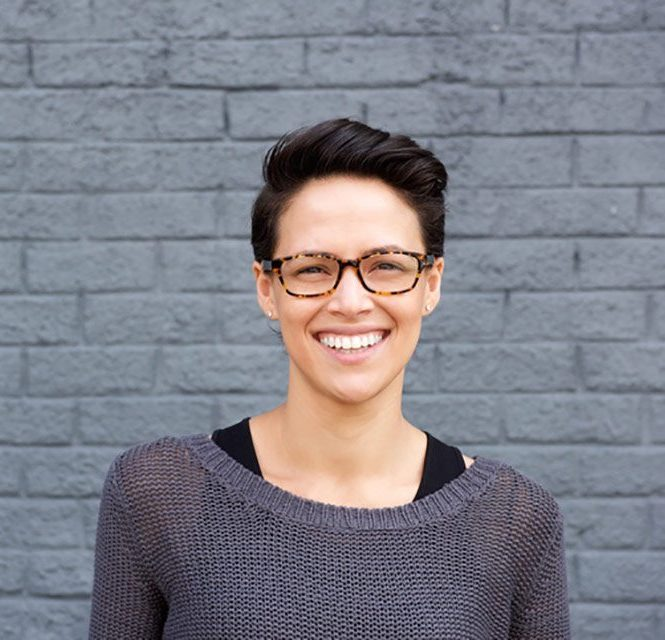
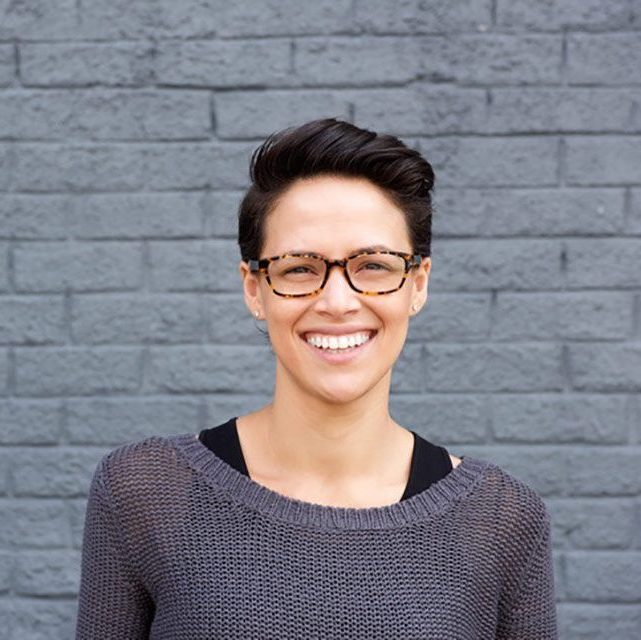
profile3 image update, tags removal

diff --git a/src/main/resources/templates/index.html b/src/main/resources/templates/index.html
@@ -2,9 +2,9 @@
 <html xmlns:th="http://www.thymeleaf.org">
 <head>
     <title>quoll</title>
-    <meta name="viewport" content="width=device-width, initial-scale=1.0"></meta>
-    <link href="webjars/bootstrap/4.0.0-beta.2/css/bootstrap.min.css" rel="stylesheet" media="screen"></link>
-    <link th:href="@{/css/index.css}" href="/css/index.css" rel="stylesheet" type="text/css"></link>
+    <meta name="viewport" content="width=device-width, initial-scale=1.0"/>
+    <link href="webjars/bootstrap/4.0.0-beta.2/css/bootstrap.min.css" rel="stylesheet" media="screen"/>
+    <link th:href="@{/css/index.css}" href="/css/index.css" rel="stylesheet" type="text/css"/>
 </head>
 <body>
     <nav class="navbar navbar-expand-md navbar-light fixed-top bg-white">
@@ -40,7 +40,7 @@
                 <p class="lead">Donec ullamcorper nulla non metus auctor fringilla. Vestibulum id ligula porta felis euismod semper. Praesent commodo cursus magna, vel scelerisque nisl consectetur. Fusce dapibus, tellus ac cursus commodo.</p>
             </div>
             <div class="col-md-5">
-                <img class="featurette-image img-fluid mx-auto rounded-circle" src="/img/profile1.png" alt="Generic placeholder image"></img>
+                <img class="featurette-image img-fluid mx-auto rounded-circle" src="/img/profile1.png" alt="Generic placeholder image"/>
             </div>
         </div>
 
@@ -52,7 +52,7 @@
                 <p class="lead">Donec ullamcorper nulla non metus auctor fringilla. Vestibulum id ligula porta felis euismod semper. Praesent commodo cursus magna, vel scelerisque nisl consectetur. Fusce dapibus, tellus ac cursus commodo.</p>
             </div>
             <div class="col-md-5 order-md-1">
-                <img class="featurette-image img-fluid mx-auto rounded-circle" src="/img/profile2.jpg" alt="Generic placeholder image"></img>
+                <img class="featurette-image img-fluid mx-auto rounded-circle" src="/img/profile2.jpg" alt="Generic placeholder image"/>
             </div>
         </div>
 
@@ -64,7 +64,7 @@
                 <p class="lead">Donec ullamcorper nulla non metus auctor fringilla. Vestibulum id ligula porta felis euismod semper. Praesent commodo cursus magna, vel scelerisque nisl consectetur. Fusce dapibus, tellus ac cursus commodo.</p>
             </div>
             <div class="col-md-5">
-                <img class="featurette-image img-fluid mx-auto rounded-circle" src="/img/profile3.jpg" alt="Generic placeholder image"></img>
+                <img class="featurette-image img-fluid mx-auto rounded-circle" src="/img/profile3.jpg" alt="Generic placeholder image"/>
             </div>
         </div>
 
@@ -75,7 +75,7 @@
 
     <footer class="footer">
         <div class="container">
-            <span class="text-muted small">@Ondřej Kycelt, Martin Polreich</span>
+            <span class="text-muted small">©Ondřej Kycelt, Martin Polreich</span>
         </div>
     </footer>
 
